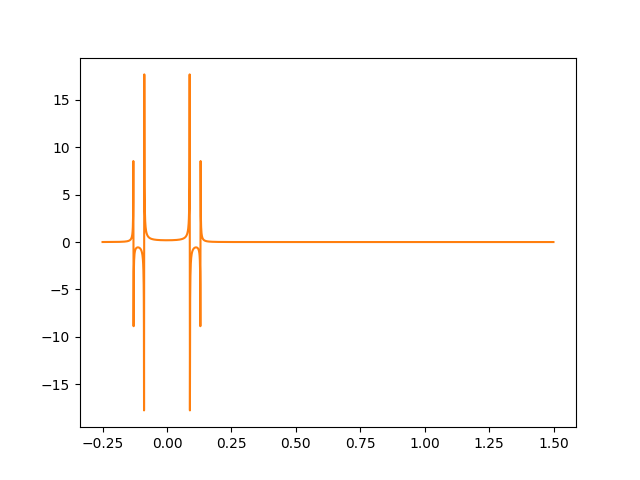
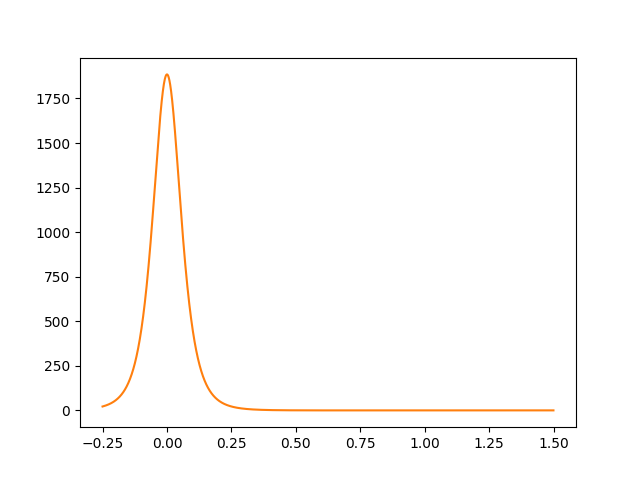
square_coil: fixed numerical issue
* Added more documentation.

* Closes #10.

diff --git a/setup_elements/elements.py b/setup_elements/elements.py
@@ -11,18 +11,15 @@
 
 import mpmath
 import numpy as np
-import warnings
 
-from physics_constants import MU_0, pi
+from physics_constants import MU_0
 
 
 class BaseCoil:
     """Class that implements basic method and attributes for a coil."""
 
-    MU_0 = MU_0
-
     def __init__(self):
-        self.prefactor = self.MU_0
+        self.prefactor = MU_0
         self.coil_mid_pos = None
         self.length = None
         self.n = None
@@ -62,12 +59,12 @@ class BaseCoil:
         return float(mpmath.ellippi(n, np.pi / 2, m))
 
     @staticmethod
-    def _rotate(vektor, phi, axis):
+    def _rotate(vector, phi, axis):
         """Rotate the vector along an axis for the given angle phi.
 
         Parameters
         ----------
-        vektor: np.array
+        vector: np.array
             3D vector
         phi: float, int
             Angle in radians
@@ -88,7 +85,7 @@ class BaseCoil:
         r = [[n1 ** 2 * (1 - c) + c, n1 * n2 * (1 - c) - n3 * s, n1 * n3 * (1 - c) + n2 * s],
              [n2 * n1 * (1 - c) + n3 * s, n2 ** 2 * (1 - c) + c, n2 * n3 * (1 - c) - n1 * s],
              [n3 * n1 * (1 - c) - n2 * s, n3 * n2 * (1 - c) + n1 * s, n3 ** 2 * (1 - c) + c]]
-        return np.dot(r, vektor)
+        return np.dot(r, vector)
 
     def change_current(self, current):
         """Change the assigned current value."""
@@ -96,6 +93,7 @@ class BaseCoil:
 
     @staticmethod
     def transform_cartesian_to_cylindrical(x, y, z):
+        """Transform coordinates from cartesian to cylindrical."""
         x = x
         rho = np.sqrt(y ** 2 + z ** 2)
         theta = np.arctan(y / z)
@@ -165,8 +163,14 @@ class Coil(BaseCoil):
         return self.prefactor * (self.sum_element_rho(rho, x, s=1) - self.sum_element_rho(rho, x, s=-1))
 
     def sum_element_rho(self, rho, x, s):
+        """Compute the summation for the rho direction.
+
+        Returns
+        -------
+        out: float
+        """
         return self.beta(rho, x, s) / rho \
-               * ((2 - self.m(rho, x, s)) * self._k(self.m(rho, x, s)) - 2 * self._e(self.m(rho, x, s)))
+            * ((2 - self.m(rho, x, s)) * self._k(self.m(rho, x, s)) - 2 * self._e(self.m(rho, x, s)))
 
     def b_field_x(self, x, rho=0):
         """Compute the magnetic field in x direction.
@@ -191,13 +195,17 @@ class Coil(BaseCoil):
 
         n = 4.0 * self.r * rho / (rho + self.r) ** 2
 
-        prefactor = 1e4 * self.MU_0 / (2 * np.pi) * self.n * self.current / self.length
-
-        return prefactor * (-self.sum_element_x(n, rho, x, s=-1) + self.sum_element_x(n, rho, x, s=1))
+        return self.prefactor * (-self.sum_element_x(n, rho, x, s=-1) + self.sum_element_x(n, rho, x, s=1))
 
     def sum_element_x(self, n, rho, x, s):
+        """Compute the summation for the x direction.
+
+        Returns
+        -------
+        out: float
+        """
         return self.zeta(x, s) / self.beta(rho, x, s) \
-               * ((rho - self.r) / (rho + self.r) * self._p(n, self.m(rho, x, s)) - self._k(self.m(rho, x, s)))
+            * ((rho - self.r) / (rho + self.r) * self._p(n, self.m(rho, x, s)) - self._k(self.m(rho, x, s)))
 
     def b_field(self, x, y, z):
         """Compute the magnetic field given the position."""
@@ -214,6 +222,10 @@ class Coil(BaseCoil):
 
 
 class SquareCoil(BaseCoil):
+    """Class that implements a square coil.
+
+    The coordinates from the reference paper are changed from (x, y, z) to (y, z, x), hence the change in the formulae.
+    """
 
     def create_coil(self, coil_mid_pos=0, length=0.1, windings=100, current=10, r=0.05, wire_d=0.006, angle_y=0,
                     angle_z=0):
@@ -234,32 +246,38 @@ class SquareCoil(BaseCoil):
         self.angle_y = angle_y
         self.angle_z = angle_z
 
-        self.prefactor *= 1 / (4 * np.pi) * self.n * self.current / self.length
+        self.prefactor *= 1e4 / (4 * np.pi) * self.n * self.current / self.length
 
     def b_field(self, x, rho, theta):
-        """Compute the magnetic field."""
+        """Compute the magnetic field.
+
+        Parameters
+        ----------
+        position in cylindrical coordinates
+
+        Returns
+        -------
+        magnetic field in cartesian coordinates
+        """
         self.x, self.y, self.z = self.transform_cylindrical_to_cartesian(x, rho, theta)
 
-        # self.x -= self.coil_mid_pos
+        self.x -= self.coil_mid_pos
 
-        field = self.prefactor * np.array([self.eta_x, self.eta_y, self.eta_z])
+        field = self.prefactor * np.array([self.sum_element_x, self.sum_element_y, self.sum_element_z])
 
-        return self._fix_numerical_error(field)
+        return self.sanitize_output(field)
 
     @staticmethod
-    def _fix_numerical_error(field):
-        """Fix computational error.
+    def sanitize_output(field):
+        """Sanitize magnetic field..
+
+        Remove possible numerical singularities.
 
         Parameters
         ----------
         field: np.array
             3D vector
         """
-
-        # if field[0] > 0:
-        #     field[0] = 0
-        # elif field[0] < 0:
-        #     field[0] = - field[0]
 
         if any(np.isinf(field)) or any(np.isnan(field)):
             field = np.array([0, 0, 0])
@@ -282,79 +300,80 @@ class SquareCoil(BaseCoil):
     #     return  self.eta_z
 
     @property
-    def eta_x(self):
+    def sum_element_x(self):
+        """Compute the summation for the x direction.
+
+        Returns
+        -------
+        out: float
+        """
         _eta = 0
         for alpha in np.arange(1, 5):
             alpha_index = alpha - 1
 
-            with warnings.catch_warnings(record=True) as w:
-                # Cause all warnings to always be triggered.
-                warnings.simplefilter("always")
-                # Verify some things
-                t1 = ((-1) ** alpha) * self.d[alpha_index] / \
-                     (self.r_values[alpha_index] * (self.r_values[alpha_index]
-                                                    + (-1) ** (alpha + 1) * self.c[alpha_index]))
-                t2 = self.c[alpha_index] \
-                     / (self.r_values[alpha_index] * (self.r_values[alpha_index] + self.d[alpha_index]))
-                if t1 == 0 or t2 == 0:
-                    print(f"0 value at {self.x}, {self.y}, {self.z}")
+            t1 = ((-1) ** alpha) * self.d[alpha_index] / \
+                 (self.r_values[alpha_index] * (self.r_values[alpha_index]
+                                                + (-1) ** (alpha + 1) * self.c[alpha_index]))
+            t2 = self.c[alpha_index] / (self.r_values[alpha_index] * (self.r_values[alpha_index] + self.d[alpha_index]))
 
-                _eta += t1 - t2
+            _eta += t1 - t2
 
-                if len(w) == 1:
-                    # ToDo: what to do when dividing by 0?
-                    print(f"Numerical error encountered at {self.x, self.y, self.z}")
-                    _eta = 0
         return _eta
 
     @property
-    def eta_y(self):
+    def sum_element_y(self):
+        """Compute the summation for the y direction.
+
+        Returns
+        -------
+        out: float
+        """
         _eta = 0
         for alpha in np.arange(1, 5):
             alpha_index = alpha - 1
 
-            _eta += ((-1)**(alpha+1)) * self.z\
-                    /(self.r_values[alpha_index] * (self.r_values[alpha_index]
-                                                    + ((-1) ** (alpha+1)) * self.c[alpha_index]))
+            _eta += ((-1)**(alpha+1)) * self.z / (self.r_values[alpha_index] * (self.r_values[alpha_index]
+                                                  + ((-1) ** (alpha+1)) * self.c[alpha_index]))
         return _eta
 
     @property
-    def eta_z(self):
+    def sum_element_z(self):
+        """Compute the summation for the z direction.
+
+        Returns
+        -------
+        out: float
+        """
         _eta = 0
         for alpha in np.arange(1, 5):
             alpha_index = alpha - 1
 
-            with warnings.catch_warnings(record=True) as w:
-                _eta += ((-1) ** (alpha + 1)) * self.z / (
-                            self.r_values[alpha_index] * (self.r_values[alpha_index] + self.d[alpha_index]))
-                if len(w) == 1:
-                    # ToDo: what to do when dividing by 0?
-                    print(f"Numerical error encountered at {self.x, self.y, self.z}")
-                    _eta = 0
+            _eta += ((-1) ** (alpha + 1)) * self.z / (
+                        self.r_values[alpha_index] * (self.r_values[alpha_index] + self.d[alpha_index]))
 
         return _eta
 
     @property
     def c(self):
-        return np.array([self.a + self.x,
-                         self.a - self.x,
-                         -self.a + self.x,
-                         -self.a - self.x])
+        return np.array([self.a + self.y,
+                         self.a - self.y,
+                         -self.a + self.y,
+                         -self.a - self.y])
 
     @property
     def d(self):
-        return np.array([self.b + self.y,
-                         self.b + self.y,
-                         self.y - self.b,
-                         self.y - self.b])
+        return np.array([self.b + self.z,
+                         self.b + self.z,
+                         self.z - self.b,
+                         self.z - self.b])
 
     @property
     def r_values(self):
         return np.array([
-            np.sqrt((self.a + self.x) ** 2 + (self.b + self.y) ** 2 + self.z ** 2),
-            np.sqrt((self.a - self.x) ** 2 + (self.b + self.y) ** 2 + self.z ** 2),
-            np.sqrt((self.a - self.x) ** 2 + (self.b - self.y) ** 2 + self.z ** 2),
-            np.sqrt((self.a + self.x) ** 2 + (self.b - self.y) ** 2 + self.z ** 2)]
+            np.sqrt((self.a + self.y) ** 2 + (self.b + self.z) ** 2 + self.x ** 2),
+            np.sqrt((self.a - self.y) ** 2 + (self.b + self.z) ** 2 + self.x ** 2),
+            np.sqrt((self.a - self.y) ** 2 + (self.b - self.z) ** 2 + self.x ** 2),
+            np.sqrt((self.a + self.y) ** 2 + (self.b - self.z) ** 2 + self.x ** 2)]
         )
 
 
@@ -379,24 +398,39 @@ class RealCoil(BaseCoil):
 
         self.prefactor *= 1e4 / (2 * np.pi) * self.n * self.current / self.length
 
-    def b_field_rho(self, x, r, rho):
-        """ # radial magnetic field
+    def b_field_rho(self, x, r, axis_point):
+        """Compute the magnetic field in rho (radial) direction.
 
+
+        Parameters
+        ----------
+        x: float
+            Value on the x axis, along the coil.
+        r: float
+            Radius value.
+        axis_point: float
+            Value on the y or z axis.
         """
         x -= self.coil_mid_pos
-        if rho == 0:
+        if axis_point == 0:
             return 0
 
-        rho = abs(rho)
+        if r:
+            # ToDo: is the radius really not playing a role?
+            pass
+
+        rho = abs(axis_point)
 
         return self.prefactor * (self.sum_element_rho(rho, x, s=1) - self.sum_element_rho(rho, x, s=-1))
 
     def sum_element_rho(self, rho, x, s):
-        return self.beta(rho, x, s) / rho \
-               * ((2 - self.m(rho, x, s)) * self._k(self.m(rho, x, s)) - 2 * self._e(self.m(rho, x, s)))
+        """Compute the summation for the rho direction."""
+        return self.beta(rho, x, s) \
+            / rho * ((2 - self.m(rho, x, s)) * self._k(self.m(rho, x, s)) - 2 * self._e(self.m(rho, x, s)))
 
     def b_field_x(self, x, r, rho=0):
-        """
+        """Compute the magnetic field in the x direction.
+
         # N = turns of winding, I = current (A), R = radius (m), l = length (m)
         # x für mich y
 
@@ -407,13 +441,24 @@ class RealCoil(BaseCoil):
 
         n = 4.0 * r * rho / (rho + r) ** 2
 
-        prefac = 1e4 * self.MU_0 / (2 * np.pi) * self.n * self.current / self.length
-
-        return prefac * (-self.sum_element_x(n, rho, x, s=-1) + self.sum_element_x(n, rho, x, s=1))
+        return self.prefactor * (-self.sum_element_x(n, rho, x, s=-1) + self.sum_element_x(n, rho, x, s=1))
 
     def sum_element_x(self, n, rho, x, s):
+        """Compute the summation for the x direction.
+
+        Parameters
+        ----------
+        n: int
+            Winding number
+        rho: float
+            Radius value.
+        x: float
+            Position on the x axis along the coil.
+        s: [-1, 1]
+            Boundary values for hte elliptical functions
+        """
         return self.zeta(x, s) / self.beta(rho, x, s) \
-               * ((rho - self.r) / (rho + self.r) * self._p(n, self.m(rho, x, s)) - self._k(self.m(rho, x, s)))
+            * ((rho - self.r) / (rho + self.r) * self._p(n, self.m(rho, x, s)) - self._k(self.m(rho, x, s)))
 
     def b_field(self, x, y, z):
         """Compute the magnetic field given the position."""

diff --git a/tests/test.py b/tests/test.py
@@ -1,4 +1,4 @@
-from numpy import sqrt, pi, array
+from numpy import sqrt, pi
 
 from unittest import TestCase
 
@@ -28,16 +28,3 @@ class TestReferenceValues(TestCase):
         assert abs(reference_value - test_value[0]) < numerical_error_acceptance
         assert test_value[1] == 0
         assert test_value[2] == 0
-
-    def test_infinity_value(self):
-        points = [(0.13, 0.0, 0.0), (-0.13, 0.0, 0.0), (-0.1299999999999999, 0.0, 0.0), (0.13000000000000034, 0.0, 0.0),
-                  (0.0885000000000003, 0.0, 0.0), (-0.08849999999999986, 0.0, 0.0)]
-
-        self.square_coil.create_coil(coil_mid_pos=0, length=0.1, windings=1000, current=10,  r=0.05, wire_d=0.006,
-                                     angle_y=0, angle_z=0)
-
-        for point in points:
-            point = self.square_coil.transform_cylindrical_to_cartesian(*point)
-            test_value = self.square_coil.b_field(*point)
-
-            print(test_value)

diff --git a/README.md b/README.md
@@ -12,5 +12,5 @@ Contributors
 
 The list of contributors in alphabetical order:
 
-- [Daniel Prelipcean](daniel.prelipcean@.tum.de)
-- [Henrik Gabold](henrik.gabold@frm2.tum.de)
+- [Daniel Prelipcean](mailto:daniel.prelipcean@.tum.de?subject=[GitHub]%20MIEZE%20Simulation)
+- [Henrik Gabold](mailto:henrik.gabold@frm2.tum.de?subject=[GitHub]%20MIEZE%20Simulation)
